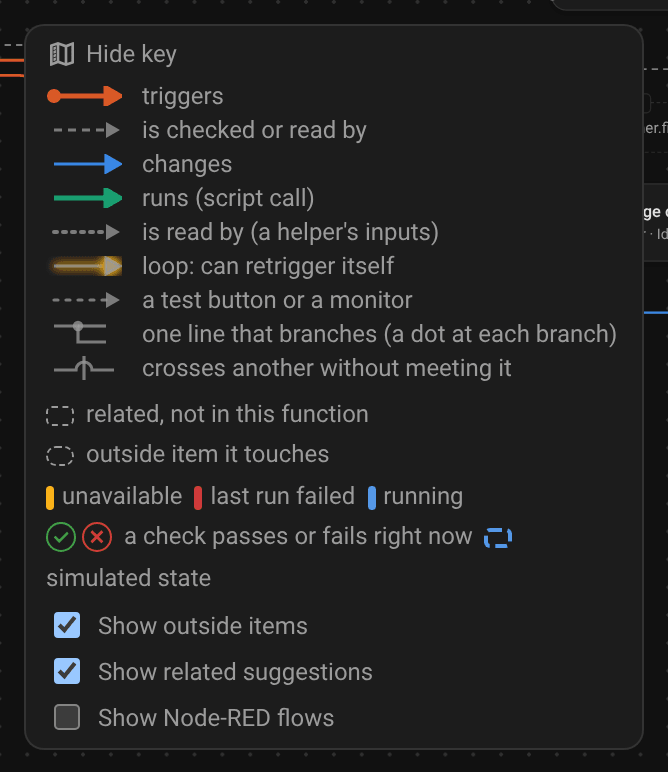
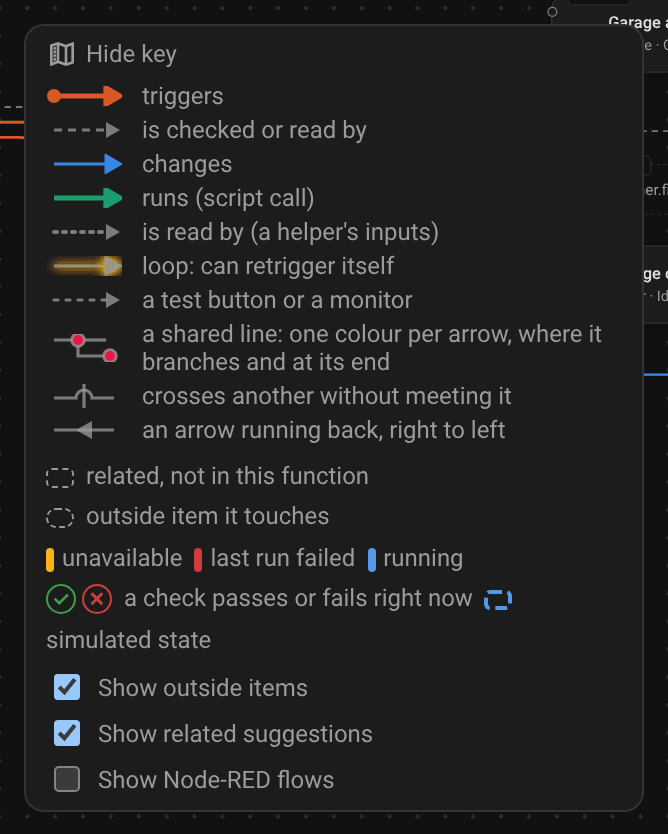
Colour per arrow on shared lines, arrowheads on arrows running back
- Each arrow on a shared line gets one of sixteen colours, assigned in turn across the function: the dot where
  it branches off and the point at its own end are filled with it and ringed in the colour of its kind. A plain
  dot marks where the shared line just splits.
- Arrows running right to left carry small arrowheads along their level runs (one per ~320 px, off the hops).
- The Key shows the coloured branch and the running-back arrowhead.
- Tests: colour tags match between branch dots and ends; the 7.5 arrow test closes the Key so it can't cover
  the target box.

Claude-Session: https://claude.ai/code/session_01UsJvN5mwHgCutyzRGZv9XT

diff --git a/custom_components/functions_board/frontend/functions-board.js b/custom_components/functions_board/frontend/functions-board.js
@@ -646,9 +646,14 @@
       // (and no corner where a run just carries on)
       return q.filter((p, i) => i === 0 || i === q.length - 1 || !((Math.abs(q[i - 1][0] - p[0]) < 0.5 && Math.abs(q[i + 1][0] - p[0]) < 0.5) || (Math.abs(q[i - 1][1] - p[1]) < 0.5 && Math.abs(q[i + 1][1] - p[1]) < 0.5)));
     });
-    return { routes: R, owners, dots: busDots(R, owners, geo), hops: hopsOf(R, owners) };
+    const bd = busDots(R, owners, geo);
+    return { routes: R, owners, dots: bd.dots, tags: bd.tags, hops: hopsOf(R, owners) };
   }
   // a dot where a bus branches (or is joined), as on a wiring diagram: where lines cross without one, they don't meet
+  // arrows that share a line each get a colour of their own (tag: index into TAGS) for the dots at the two places
+  // they stand apart: where they branch off the shared line, and the point on the box at their own end
+  const TAGS = ['#e6194b', '#3cb44b', '#ffe119', '#4363d8', '#f58231', '#911eb4', '#42d4f4', '#f032e6', '#bfef45', '#fabed4',
+    '#469990', '#dcbeff', '#9a6324', '#fffac8', '#800000', '#aaffc3'];
   function busDots(routes, owners, geo) {
     const by = new Map();
     routes.forEach((pts, ri) => {
@@ -656,21 +661,39 @@
         if (!own) return;
         let v = -1;
         for (let i = 1; i < pts.length; i++) if (Math.abs(pts[i - 1][0] - pts[i][0]) < 0.5 && Math.abs(pts[i - 1][1] - pts[i][1]) > 0.5) { v = i; if (end === 0) break; }
-        if (!by.has(own)) by.set(own, { own, role: geo[ri].e.role, x: null, ys: [] });
+        if (!by.has(own)) by.set(own, { own, role: geo[ri].e.role, x: null, ys: [], ms: [] });
         const b = by.get(own);
-        // a member with no turn joins the bus line where it runs straight through it
+        // where it leaves (or joins) the shared line; a member with no turn does so where it runs straight through
+        const turn = v < 0 ? pts[0][1] : end === 0 ? pts[v][1] : pts[v - 1][1];
+        // its own end: the far end of an arrow out of a shared point, the start of one into it
+        const far = end === 0 ? pts[pts.length - 1] : pts[0];
+        b.ms.push({ ri, turn, far });
         if (v < 0) { b.ys.push(pts[0][1]); return; }
         b.x = pts[v][0];
         b.ys.push(pts[v - 1][1], pts[v][1]);
       });
     });
-    const dots = [];
+    const dots = [], tags = new Map();
+    let next = 0;
     by.forEach((b) => {
+      // a colour each across the whole function, in the order the arrows of a shared line sit, so that a colour
+      // comes round again only after all of them have been used
+      b.ms.sort((p, q) => p.far[1] - q.far[1] || p.turn - q.turn).forEach((m) => { m.tag = next++ % TAGS.length; tags.set(m.ri, { tag: m.tag, own: b.own, far: m.far, role: b.role }); });
       if (b.x == null) return;
       const lo = Math.min(...b.ys), hi = Math.max(...b.ys), seen = [];
-      b.ys.forEach((y) => { if (y > lo + 1 && y < hi - 1 && !seen.some((z) => Math.abs(z - y) < 1)) { seen.push(y); dots.push({ x: b.x, y, role: b.role, own: b.own }); } });
+      b.ms.forEach((m) => {
+        if (m.turn <= lo + 1 || m.turn >= hi - 1 || seen.some((z) => Math.abs(z - m.turn) < 1)) return;
+        seen.push(m.turn);
+        dots.push({ x: b.x, y: m.turn, role: b.role, own: b.own, tag: m.tag, ri: m.ri });
+      });
+      // where the shared line itself splits, up and down, a plain dot in the colour of its kind
+      b.ys.forEach((y) => {
+        if (y <= lo + 1 || y >= hi - 1 || seen.some((z) => Math.abs(z - y) < 1)) return;
+        seen.push(y);
+        dots.push({ x: b.x, y, role: b.role, own: b.own, tag: null, ri: b.ms[0].ri });
+      });
     });
-    return dots;
+    return { dots, tags };
   }
   // where a level run crosses another arrow's upright run, it hops over it: per arrow, the runs and where
   function hopsOf(routes, owners) {
@@ -1681,10 +1704,25 @@ button{font:inherit;color:inherit}
 .board.pc .edges path.hi.role-action{stroke:var(--fb-act);stroke-width:2.6}
 .board.pc .edges path.hi.role-call{stroke:var(--fb-call);stroke-width:3.2}
 .board.pc .edges path.live{stroke:var(--primary-text-color);stroke-width:2.6}
-.edges circle.jd{fill:var(--fb-edge);stroke:none}
-.board.pc .edges circle.jd.role-trigger{fill:var(--fb-trig)}
-.board.pc .edges circle.jd.role-action{fill:var(--fb-act)}
-.board.pc .edges circle.jd.role-call{fill:var(--fb-call)}
+.edges circle.jd{stroke:var(--fb-edge);stroke-width:2}
+.edges circle.jd.split{fill:var(--fb-edge);stroke:none}
+.board.pc .edges circle.jd.split.role-trigger{fill:var(--fb-trig)}
+.board.pc .edges circle.jd.split.role-action{fill:var(--fb-act)}
+.board.pc .edges circle.jd.split.role-call{fill:var(--fb-call)}
+.board.pc .edges circle.jd.role-trigger{stroke:var(--fb-trig)}
+.board.pc .edges circle.jd.role-action{stroke:var(--fb-act)}
+.board.pc .edges circle.jd.role-call{stroke:var(--fb-call)}
+.edges path.chev{fill:var(--fb-edge);stroke:none}
+.board.pc .edges path.chev.role-trigger{fill:var(--fb-trig)}
+.board.pc .edges path.chev.role-action{fill:var(--fb-act)}
+.board.pc .edges path.chev.role-call{fill:var(--fb-call)}
+.edges path.chev.dim{opacity:.12}
+.node .port.tagd{width:10px;height:10px;border-width:2px;margin-top:-1px}
+.node .port.tagd.pl{left:-5px}
+.node .port.tagd.pr{right:-5px}
+.board.pc .node .port.tagd.role-trigger{border-color:var(--fb-trig)}
+.board.pc .node .port.tagd.role-action{border-color:var(--fb-act)}
+.board.pc .node .port.tagd.role-call{border-color:var(--fb-call)}
 .edges circle.jd.dim{opacity:.18}
 .board.pc .lg svg path.role-trigger{stroke:var(--fb-trig)}
 .board.pc .lg svg path.ah.role-trigger,.board.pc .lg svg .ah.trig{fill:var(--fb-trig)}
@@ -2252,7 +2290,8 @@ button:focus-visible,.chip:focus-visible,.mi:focus-visible{outline:2px solid var
       highlight_around_a_selected_box: 'Highlight around a selected box',
       reach: 'Reach',
       live: 'Live',
-      one_line_that_branches_dot: 'one line that branches (a dot at each branch)',
+      one_line_that_branches_dot: 'a shared line: one colour per arrow, where it branches and at its end',
+      runs_back: 'an arrow running back, right to left',
       crosses_without_meeting: 'crosses another without meeting it',
       arrow_style: 'Style',
       curved_arrows: 'Curved arrows',
@@ -3888,7 +3927,7 @@ button:focus-visible,.chip:focus-visible,.mi:focus-visible{outline:2px solid var
         + (n.kind === 'outside' ? '' : '<div class="sub"></div>') + '</div>'
         + (b ? `<div class="badges">${b}</div>` : '')
         // the points arrows leave from (right) and enter by (left); in Full manager, drag from one to draw an arrow
-        + (PROTO().ortho ? portYs(n.h).map((y) => `<span class="port pl" style="top:${y - 4}px"></span><span class="port pr" style="top:${y - 4}px"></span>`).join('') : '') + '</div>';
+        + (PROTO().ortho ? portYs(n.h).map((y) => `<span class="port pl" data-y="${y - 4}" style="top:${y - 4}px"></span><span class="port pr" data-y="${y - 4}" style="top:${y - 4}px"></span>`).join('') : '') + '</div>';
     }
 
     _renderFrames() {
@@ -4011,13 +4050,31 @@ button:focus-visible,.chip:focus-visible,.mi:focus-visible{outline:2px solid var
       const boxes = [...this._visibleKeys()].map((k) => m.nodes.get(k));
       const marks = [], condOn = this._data.ui.condres !== false;
       const geo = arrowGeo(E, (k) => m.nodes.get(k), PR.ortho ? orthoSides : sides);
-      let dots = [];
+      let dots = [], tagged = null;
+      const chev = [];
       if (PR.ortho) {
         const r = orthoAll(geo, (e, sd) => this._routeFor(e, sd), boxes);
         this._ortho = { ids: geo.map((g) => g.e.id), routes: r.routes, owners: r.owners, boxes: geo.map((g) => [g.e.from, g.e.to]) };
         geo.forEach((g, i) => { const rp = roundPath(r.routes[i], r.hops[i]); g.gm = { d: rp.d, mx: rp.mid[0], my: rp.mid[1] }; });
         // a bus's dots light with it
-        dots = r.dots.map((dt) => Object.assign({ lit: !F || geo.some((g, i) => (r.owners[i] || []).includes(dt.own) && this._focusEdges.has(g.e.id)) }, dt));
+        // a branch lights with its arrow
+        dots = r.dots.map((dt) => Object.assign({ lit: !F || (dt.tag == null ? geo.some((g, i) => (r.owners[i] || []).includes(dt.own) && this._focusEdges.has(g.e.id)) : this._focusEdges.has(geo[dt.ri].e.id)) }, dt));
+        tagged = r.tags;
+        // each arrow's direction, on runs that go back (right to left)
+        geo.forEach((g, i) => {
+          const pts = r.routes[i], hi = !!F && this._focusEdges.has(g.e.id), hp = r.hops[i] || new Map();
+          for (let j = 1; j < pts.length; j++) {
+            const u = pts[j - 1], v = pts[j], len = u[0] - v[0];
+            if (Math.abs(u[1] - v[1]) > 0.5 || len < 70) continue;
+            const n = Math.max(1, Math.floor(len / 320));
+            for (let q = 1; q <= n; q++) {
+              let x = u[0] - (len * q) / (n + 1);
+              // (not on a hop)
+              (hp.get(j) || []).forEach((h) => { if (Math.abs(h - x) < HOP + 6) x = h + HOP + 8; });
+              chev.push(`<path class="chev role-${esc(g.e.role)}${F && !hi ? ' dim' : ''}" d="M${x - 4},${u[1]} L${x + 4},${u[1] - 4.5} L${x + 4},${u[1] + 4.5} z"></path>`);
+            }
+          }
+        });
       }
       for (const g of geo) {
         const e = g.e, way = g.gm ? null : this._routeFor(e, g.s);
@@ -4044,8 +4101,28 @@ button:focus-visible,.chip:focus-visible,.mi:focus-visible{outline:2px solid var
           marks.push(`<g class="cres ${kind}${F && !hi ? ' dim' : ''}" data-edge="${esc(e.id)}" transform="translate(${gm.mx},${gm.my})"><circle r="8"></circle>${glyph}<title>${esc(this._condTitle(e, c))}</title></g>`);
         }
       }
-      const jd = dots.map((dt) => `<circle class="jd role-${esc(dt.role)}${dt.lit ? '' : ' dim'}" cx="${dt.x}" cy="${dt.y}" r="3.6"></circle>`);
-      this._$.edges.innerHTML = out.join('') + jd.join('') + hits.join('') + labels.join('') + marks.join('');
+      const jd = dots.map((dt) => (dt.tag == null ? `<circle class="jd split role-${esc(dt.role)}${dt.lit ? '' : ' dim'}" cx="${dt.x}" cy="${dt.y}" r="3.6"></circle>`
+        : `<circle class="jd role-${esc(dt.role)}${dt.lit ? '' : ' dim'}" cx="${dt.x}" cy="${dt.y}" r="4.6" style="fill:${TAGS[dt.tag]}"></circle>`));
+      this._$.edges.innerHTML = out.join('') + chev.join('') + jd.join('') + hits.join('') + labels.join('') + marks.join('');
+      this._tagPorts(tagged, geo);
+    }
+
+    // the point on a box at the own end of an arrow that shares a line takes that arrow's colour, ringed in the
+    // colour of its kind, like the dot where it branches off
+    _tagPorts(tagged, geo) {
+      this.shadowRoot.querySelectorAll('.node .port.tagd').forEach((p) => { p.classList.remove('tagd'); p.removeAttribute('style'); p.style.top = p.dataset.y + 'px'; p.className = p.className.replace(/ role-\S+/g, ''); });
+      if (!tagged) return;
+      const F = this._focus;
+      tagged.forEach((t, ri) => {
+        const g = geo[ri], into = t.own.startsWith('out:'), key = into ? g.e.to : g.e.from, n = this._model.nodes.get(key), el = this._els && this._els.get(key);
+        if (!n || !el) return;
+        const ys = portYs(n.h), i = ys.findIndex((y) => Math.abs(n.y + y - t.far[1]) < 1.5);
+        const port = i >= 0 && el.querySelectorAll(into ? '.port.pl' : '.port.pr')[i];
+        if (!port) return;
+        port.classList.add('tagd', 'role-' + t.role);
+        port.style.background = TAGS[t.tag];
+        if (F && !this._focusEdges.has(g.e.id)) port.style.opacity = '.25';
+      });
     }
 
     /* ---------- the Arrows menu: highlight modes (7.1) and filters (7.2) ---------- */
@@ -4340,8 +4417,9 @@ button:focus-visible,.chip:focus-visible,.mi:focus-visible{outline:2px solid var
       const line = (cls) => `<svg width="38" height="10"><path class="${cls}" d="M4,5 L30,5"></path><path class="ah ${cls}" d="M30,1 L37,5 L30,9 z"></path>${cls === 'role-trigger' ? '<circle class="ah trig" cx="4" cy="5" r="3.5"></circle>' : ''}</svg>`;
       this._$.legend.innerHTML = `<button class="lgt" data-act="legend"><ha-icon icon="mdi:map-legend"></ha-icon>${open ? T('hide_key') : T('key')}</button>`
         + (open ? `<div class="lg">${line('role-trigger')}<span>${T('triggers')}</span>${line('role-condition')}<span>${T('is_checked_or_read_by')}</span>${line('role-action')}<span>${T('changes_2')}</span>${line('role-call')}<span>${T('runs_script_call')}</span>${line('role-source')}<span>${T('is_read_by_a_helper')}</span>${line('loop')}<span>${T('loop_can_retrigger_itself')}</span>${line('role-tool')}<span>${T('a_test_button_or_a')}</span>`
-          + `<svg width="38" height="14"><path d="M4,3 L16,3 L16,11 L30,11"></path><path d="M16,3 L30,3"></path><circle class="ah" cx="16" cy="3" r="2.6"></circle></svg><span>${T('one_line_that_branches_dot')}</span>`
-          + `<svg width="38" height="14"><path d="M19,1 L19,13"></path><path d="M4,8 L15,8 A4,4 0 0 1 23,8 L34,8"></path></svg><span>${T('crosses_without_meeting')}</span></div><div class="lgn"><span class="sw dashed"></span>${T('related_not_in_this_function')}<br><span class="sw pill"></span>${T('outside_item_it_touches')}<br><span class="sw st amber"></span>${T('unavailable')}<span class="sw st red"></span>${T('last_run_failed')}<span class="sw st blue"></span>${T('running')}<br><span class="cres-k ok">✓</span><span class="cres-k bad">✕</span> ${T('a_check_passes_or_fails')}<span class="sw dashed2"></span>${T('simulated_state')}</div><label class="tg"><input type="checkbox" data-tog="outside" ${u.outside ? 'checked' : ''}>${T('show_outside_items')}</label><label class="tg"><input type="checkbox" data-tog="suggest" ${u.suggest ? 'checked' : ''}>${T('show_related_suggestions')}</label><label class="tg" title="${T('reads_your_node_red_app')}"><input type="checkbox" data-nr ${u0.nodered === true ? 'checked' : ''}>${T('show_node_red_flows')}</label>${u0.nodered === true && this._nrCache && this._nrCache.err ? `<div class="lgerr">${esc(this._nrCache.err)}</div>` : ''}` : '');
+          + `<svg width="38" height="14"><path d="M4,3 L16,3 L16,11 L30,11"></path><path d="M16,3 L30,3"></path><circle cx="16" cy="3" r="3.2" style="fill:${TAGS[0]};stroke:var(--fb-edge);stroke-width:1.4"></circle><circle cx="32" cy="11" r="3.2" style="fill:${TAGS[0]};stroke:var(--fb-edge);stroke-width:1.4"></circle></svg><span>${T('one_line_that_branches_dot')}</span>`
+          + `<svg width="38" height="14"><path d="M19,1 L19,13"></path><path d="M4,8 L15,8 A4,4 0 0 1 23,8 L34,8"></path></svg><span>${T('crosses_without_meeting')}</span>`
+          + `<svg width="38" height="14"><path d="M4,7 L34,7"></path><path class="ah" d="M15,7 L23,2.5 L23,11.5 z"></path></svg><span>${T('runs_back')}</span></div><div class="lgn"><span class="sw dashed"></span>${T('related_not_in_this_function')}<br><span class="sw pill"></span>${T('outside_item_it_touches')}<br><span class="sw st amber"></span>${T('unavailable')}<span class="sw st red"></span>${T('last_run_failed')}<span class="sw st blue"></span>${T('running')}<br><span class="cres-k ok">✓</span><span class="cres-k bad">✕</span> ${T('a_check_passes_or_fails')}<span class="sw dashed2"></span>${T('simulated_state')}</div><label class="tg"><input type="checkbox" data-tog="outside" ${u.outside ? 'checked' : ''}>${T('show_outside_items')}</label><label class="tg"><input type="checkbox" data-tog="suggest" ${u.suggest ? 'checked' : ''}>${T('show_related_suggestions')}</label><label class="tg" title="${T('reads_your_node_red_app')}"><input type="checkbox" data-nr ${u0.nodered === true ? 'checked' : ''}>${T('show_node_red_flows')}</label>${u0.nodered === true && this._nrCache && this._nrCache.err ? `<div class="lgerr">${esc(this._nrCache.err)}</div>` : ''}` : '');
     }
 
     /* ---------- view ---------- */

diff --git a/tests/e2e/regress.test.js b/tests/e2e/regress.test.js
@@ -957,6 +957,22 @@ test('0.6.0 square-cornered arrows: never alongside each other, colours by meani
     const ext = (ks) => { const ns = ks.map((k) => nodes.get(k)); return { x0: Math.min(...ns.map((n) => n.x)), y0: Math.min(...ns.map((n) => n.y)), x1: Math.max(...ns.map((n) => n.x + n.w)), y1: Math.max(...ns.map((n) => n.y + n.h)) }; };
     return { a: ext(keys.slice(0, 4)), b: ext(keys.slice(4, 7)), c: ext(['automation.c1']) };
   });
+  // five arrows out of one box: they share its three points; each arrow's branch dot and the point at its own end
+  // have the same colour, and no two arrows of the function have the same one
+  const tg = await el(page, (b) => {
+    const mk = (key, kind) => ({ key, kind, domain: key.split('.')[0], name: key, icon: 'mdi:circle', badges: new Set(), w: kind === 'outside' ? 204 : 240, h: kind === 'outside' ? 40 : 62, x: 0, y: 0 });
+    const ls = [1, 2, 3, 4, 5].map((i) => 'light.l' + i), keys = ['automation.all_off', ...ls];
+    const nodes = new Map(keys.map((k) => [k, mk(k, k.startsWith('light') ? 'outside' : 'member')]));
+    b._model = { label: 'fbx-tags', nodes, edges: ls.map((t) => ({ id: 'automation.all_off>' + t, from: 'automation.all_off', to: t, role: 'action', svcs: new Set(), tfs: [], anyTrig: true })) };
+    b._layout('fbx-tags').nodes = {};
+    b._place(); b._render();
+    const fill = (e) => getComputedStyle(e).fill === 'none' ? null : getComputedStyle(e).fill;
+    const dots = [...b.shadowRoot.querySelectorAll('.edges circle.jd:not(.split)')].map((c) => c.style.fill);
+    const ports = [...b.shadowRoot.querySelectorAll('.node .port.tagd')].map((p) => p.style.background);
+    return { dots, ports, used: new Set(b.shadowRoot.querySelectorAll('.node[data-key="automation.all_off"] .port.pr')).size };
+  });
+  check('0.6.0 the arrows on a shared line each have a colour at their own end', tg.ports.length >= 4 && new Set(tg.ports).size === tg.ports.length, tg);
+  check('0.6.0 each branch dot has the colour of the arrow branching off there', tg.dots.length >= 2 && tg.dots.every((d) => tg.ports.includes(d)), tg);
   const apart = (p, q) => p.x1 + 40 <= q.x0 || q.x1 + 40 <= p.x0 || p.y1 + 40 <= q.y0 || q.y1 + 40 <= p.y0;
   check('0.6.0 two separate chains sit apart as blocks', apart(pk.a, pk.b), pk);
   check('0.6.0 a chain packs beside or under the bigger one, without a column gap between its boxes', pk.b.x1 - pk.b.x0 < 900, pk);

diff --git a/tests/e2e/tools.test.js b/tests/e2e/tools.test.js
@@ -452,8 +452,8 @@ test('7.5 draw an arrow and remove it: the config ends as it started, and both s
   const cfg = () => api(page, 'GET', 'config/automation/config/' + aid);
   const canon = (v) => JSON.stringify(v, (k, x) => (x && typeof x === 'object' && !Array.isArray(x) ? Object.keys(x).sort().reduce((o, kk) => { o[kk] = x[kk]; return o; }, {}) : x));
   const c0 = canon(await cfg());
-  // drag from the helper's handle onto the automation
-  await el(page, (b, k) => { b._centerOn(k); b._select(k); }, AUTO);
+  // drag from the helper's handle onto the automation (the Key closed, so it covers neither)
+  await el(page, (b, k) => { b._data.ui.legend = false; b._renderLegend(); b._centerOn(k); b._select(k); }, AUTO);
   await page.waitForTimeout(400);
   const hb = await fbq(page, '.lh').boundingBox();
   const tb = await fbq(page, `.node[data-key="${ak}"]`).boundingBox();

diff --git a/README.md b/README.md
@@ -14,7 +14,7 @@ Home Assistant files things by type: automations in one list, scripts in another
 
 - **One board per function.** A function is a Home Assistant label. Everything carrying it is on the board, and still lives in its usual place under Settings.
 - **Arrows read from your configs:** what triggers each automation, what it checks, what it changes and which scripts it runs, including area, floor and label targets, purpose-specific triggers (a light turning on, a door opening), what template and other derived helpers read, scenes and groups, and the buttons on a notification with the automations that answer them. Blueprint automations are read as Home Assistant fills them in. Real loops (an automation whose own effects can set it off again) are marked.
-- **Laid out for you:** arrows are coloured by what they do (orange sets something off, blue changes it, aqua runs a script) and run square-cornered from left to right in their own lanes, never alongside each other, from three points on each side of a box. Lines that share a point branch at a dot; lines that cross without meeting hop over each other. Boxes line up with what they connect to, separate chains are packed together, and **Auto-arrange** lays out a function again at any time, and runs on every import; **Keep in place** in a box's bar leaves that box where you put it, and Undo puts your own arrangement back. **Arrows → Curved arrows** brings back curved arrows.
+- **Laid out for you:** arrows are coloured by what they do (orange sets something off, blue changes it, aqua runs a script) and run square-cornered from left to right in their own lanes, never alongside each other, from three points on each side of a box. Lines that share a point branch at a dot, coloured per arrow to match the point at its other end; lines that cross without meeting hop over each other; arrows running back carry arrowheads along the way. Boxes line up with what they connect to, separate chains are packed together, and **Auto-arrange** lays out a function again at any time, and runs on every import; **Keep in place** in a box's bar leaves that box where you put it, and Undo puts your own arrangement back. **Arrows → Curved arrows** brings back curved arrows.
 - **Click a box** to light up its chain; the **Arrows** menu chooses how far (upstream, downstream, both) and which kinds of arrow show. **Edit** in a box's bar, or a double-click, opens it in Home Assistant's own editor without leaving the board: an automation's or script's editor, a helper's settings, a scene's editor.
 - **Live:** states on every box, runs pulse as they happen, last-run failures and unavailable entities are flagged, and **Runs** lists every run in the function; picking one lights the arrows it actually used.
 - **Import** finds the functions already in your setup. It traces every automation and script and groups the ones that trigger, change or call each other, merged with the categories you already use, and shows what is left over. Import them all or one at a time, start from labels you already have, or pick items by hand.

diff --git a/CHANGELOG.md b/CHANGELOG.md
@@ -13,6 +13,10 @@ New arrows and a new automatic layout.
   side each have a point of their own and their own line. More than three share the three points (split by kind
   and by where they go): the arrows at a point run as one line that branches, with a dot at each branch. Where two
   lines cross without meeting, one hops over the other, so a dot always means a branch and a hop a crossing.
+- Each arrow on a shared line has a colour of its own (sixteen, used in turn across the function), on the dot
+  where it branches off and on the point at its own end, ringed in the colour of its kind; where the shared line
+  just splits, the dot is plain.
+- Arrows running back (right to left) carry small arrowheads along the way, so their direction reads at a glance.
 - In Full manager, drag from a box's right-hand point to another box to draw an arrow out of it, or from a
   left-hand point to draw one into it.
 - A short step up or down in the middle of a level run is straightened out where that's clear.
